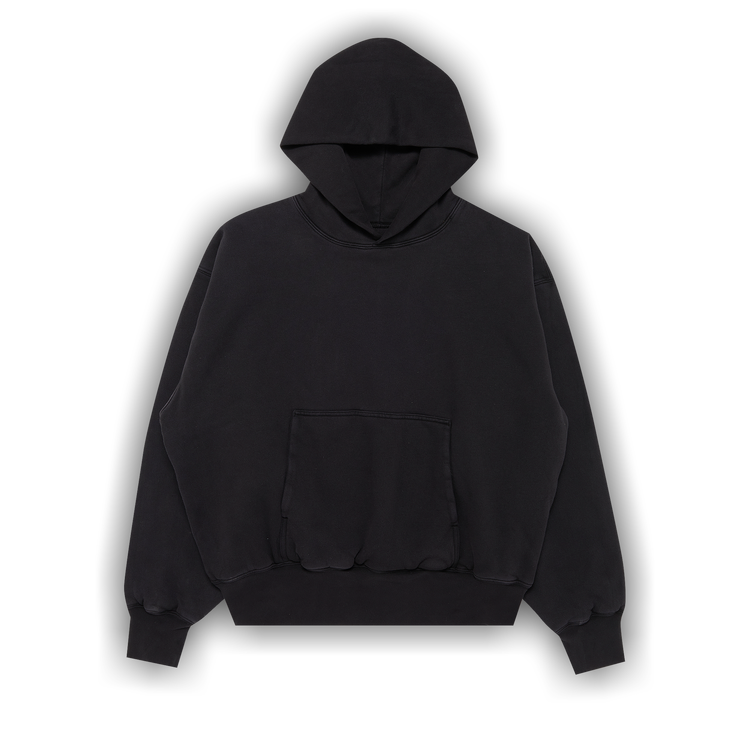
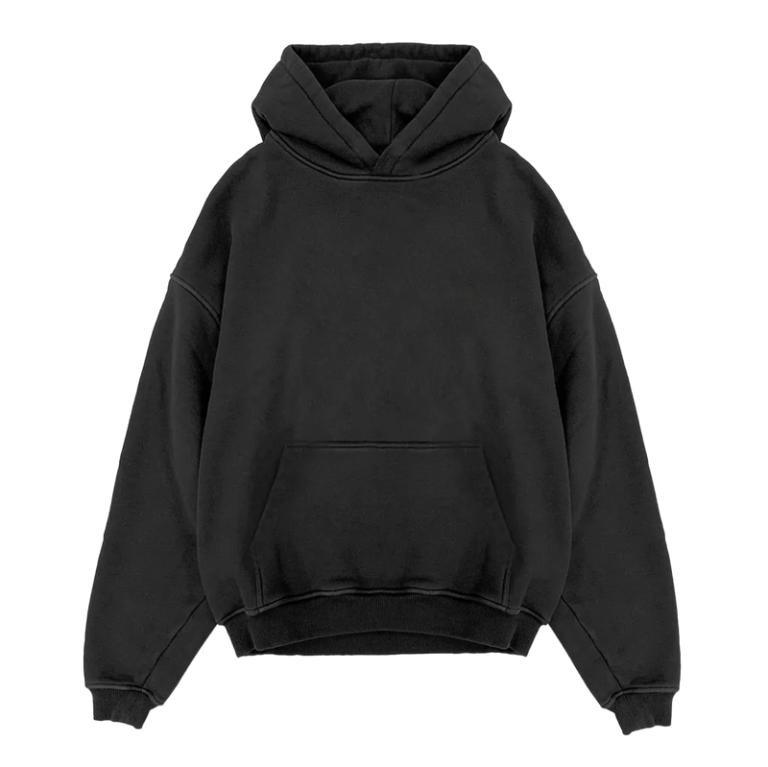
Added hoodie designs

diff --git a/src/assets/assets.js b/src/assets/assets.js
@@ -22,13 +22,16 @@ import landingPageIcon from './landingPageIcon.png'
 import creamTee from './creamTeeShirt.png'
 import blackTee from './blackTee.png'
 import blackTeeDesign1 from './blackTeeDesign1.png'
+import blackHoodieDesign1 from './blackHoodieDesign1.png'
 import teeDesign1 from './teeDesign1.png'
 import blackTeeDesign2 from './blackTeeDesign2.png'
 import teeDesign2 from './teeDesign2.png'
 import blackTeeDesign3 from './blackTeeDesign3.png'
 import teeDesign3 from './TeeDesign3.png'
 import blackTeeDesign4 from './blackTeeDesign4.png'
+import blackHoodieDesign4 from './blackHoodieDesign4.png'
 import teeDesign4 from './TeeDesign4.png'
+import blackHoodie from './blackHoodie.png'
 
 import hoodie1 from './hoodie1.png'
 import hoodie2 from './hoodie2.png'
@@ -39,7 +42,6 @@ import hoodie6 from './hoodie6.png'
 import hoodie6_1 from './hoodie6.1.png'
 import femHoodie1 from './femHoodie1.jpg'
 import kidHoodie1 from './kidHoodie1.jpg'
-import blackShirtIcon from './blackShirtIcon.png'
 
 
 export const assets = {
@@ -68,6 +70,7 @@ export const assets = {
     blackTee,
 
     blackTeeDesign1,
+    blackHoodieDesign1,
     teeDesign1,
 
     blackTeeDesign2,
@@ -77,7 +80,10 @@ export const assets = {
     teeDesign3,
 
     blackTeeDesign4,
+    blackHoodieDesign4,
     teeDesign4,
+
+    blackHoodie,
 
     hoodie1,
     hoodie2,
@@ -92,18 +98,6 @@ export const assets = {
 
 export const products = [
 {
-    _id : "aaaaa",
-    name: "Male black tee-shirt",
-    description: "A lightweight black tee shirt for men",
-    price: 25,
-    image: [blackTee, blackTee],
-    category: "Men",
-    subCategory: "Shirts",
-    sizes: ["S", "M", "L", "XL"],
-    date: 1716634345448, //change
-    bestseller: false,
-},
-{
     _id : "aaaab",
     name: "Male Black tee-shirt Planet design",
     description: "A lightweight black tee shirt for men with a design",
@@ -114,6 +108,18 @@ export const products = [
     sizes: ["S", "M", "L", "XL"],
     date: 1716634345449, //change
     bestseller: true,
+},
+{
+    _id : "aaaak",
+    name: "Male black Hoodie Planet design",
+    description: "A lightweight black hoodie for men with planet design",
+    price: 75,
+    image: [blackHoodieDesign1, teeDesign1],
+    category: "Men",
+    subCategory: "Outerwear",
+    sizes: ["S", "M", "L", "XL"],
+    date: 1716634345449, //change
+    bestseller: false,
 },
 {
     _id : "aaaab",
@@ -131,10 +137,22 @@ export const products = [
     _id : "aaaac",
     name: "Male black tee-shirt Smiley design",
     description: "A lightweight black tee shirt for men with a smiley design",
-    price: 90,
+    price: 35,
     image: [blackTeeDesign4, teeDesign4],
     category: "Men",
     subCategory: "Shirts",
+    sizes: ["S", "M", "L", "XL"],
+    date: 1716634345449, //change
+    bestseller: true,
+},
+{
+    _id : "aaaal",
+    name: "Male Black Hoodie Smiley design",
+    description: "A lightweight brown hoodie for men",
+    price: 75,
+    image: [blackHoodieDesign4, teeDesign4],
+    category: "Men",
+    subCategory: "Outerwear",
     sizes: ["S", "M", "L", "XL"],
     date: 1716634345449, //change
     bestseller: true,
@@ -150,6 +168,18 @@ export const products = [
     sizes: ["S", "M", "L", "XL"],
     date: 1716634345449, //change
     bestseller: true,
+},
+{
+    _id : "aaaaa",
+    name: "Male black tee-shirt",
+    description: "A lightweight black tee shirt for men",
+    price: 25,
+    image: [blackTee, blackTee],
+    category: "Men",
+    subCategory: "Shirts",
+    sizes: ["S", "M", "L", "XL"],
+    date: 1716634345448, //change
+    bestseller: false,
 },
 {
     _id : "aaaae",
@@ -216,23 +246,12 @@ export const products = [
     name: "Male Black Hoodie",
     description: "A lightweight black hoodie for men",
     price: 100,
-    image: [hoodie1, hoodie1],
+    image: [blackHoodie, blackHoodie],
     category: "Men",
     subCategory: "Outerwear",
     sizes: ["S", "M", "L", "XL"],
     date: 1716634345448, //change
     bestseller: true,
 },
-{
-    _id : "aaaak",
-    name: "Male Brown Hoodie",
-    description: "A lightweight brown hoodie for men",
-    price: 75,
-    image: [hoodie2, hoodie2],
-    category: "Men",
-    subCategory: "Outerwear",
-    sizes: ["S", "M", "L", "XL"],
-    date: 1716634345449, //change
-    bestseller: true,
-},
+
 ]
